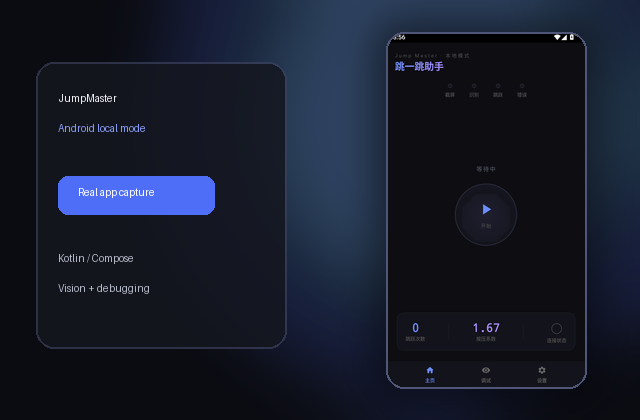
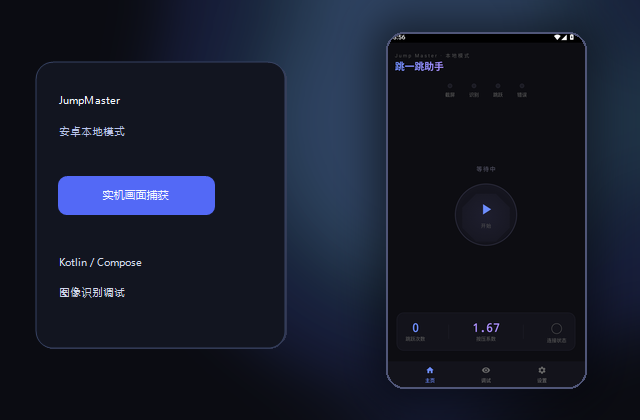
fix: localize homepage status copy

diff --git a/src/components/HeroSection.tsx b/src/components/HeroSection.tsx
@@ -29,21 +29,21 @@ export function HeroSection() {
         </div>
         <aside className="status-panel" aria-label="当前状态">
           <div className="status-panel-header">
-            <span>CURRENTLY</span>
+            <span>当前状态</span>
             <span className="status-dot">在线</span>
           </div>
           <dl>
             <div>
-              <dt>Learning</dt>
-              <dd>Android internals & C++</dd>
+              <dt>正在学</dt>
+              <dd>Android 底层和 C++</dd>
             </div>
             <div>
-              <dt>Building</dt>
-              <dd>Small tools that actually work</dd>
+              <dt>正在做</dt>
+              <dd>能真正跑起来的小工具</dd>
             </div>
             <div>
-              <dt>Status</dt>
-              <dd>Still shipping</dd>
+              <dt>状态</dt>
+              <dd>边学边交付</dd>
             </div>
           </dl>
         </aside>